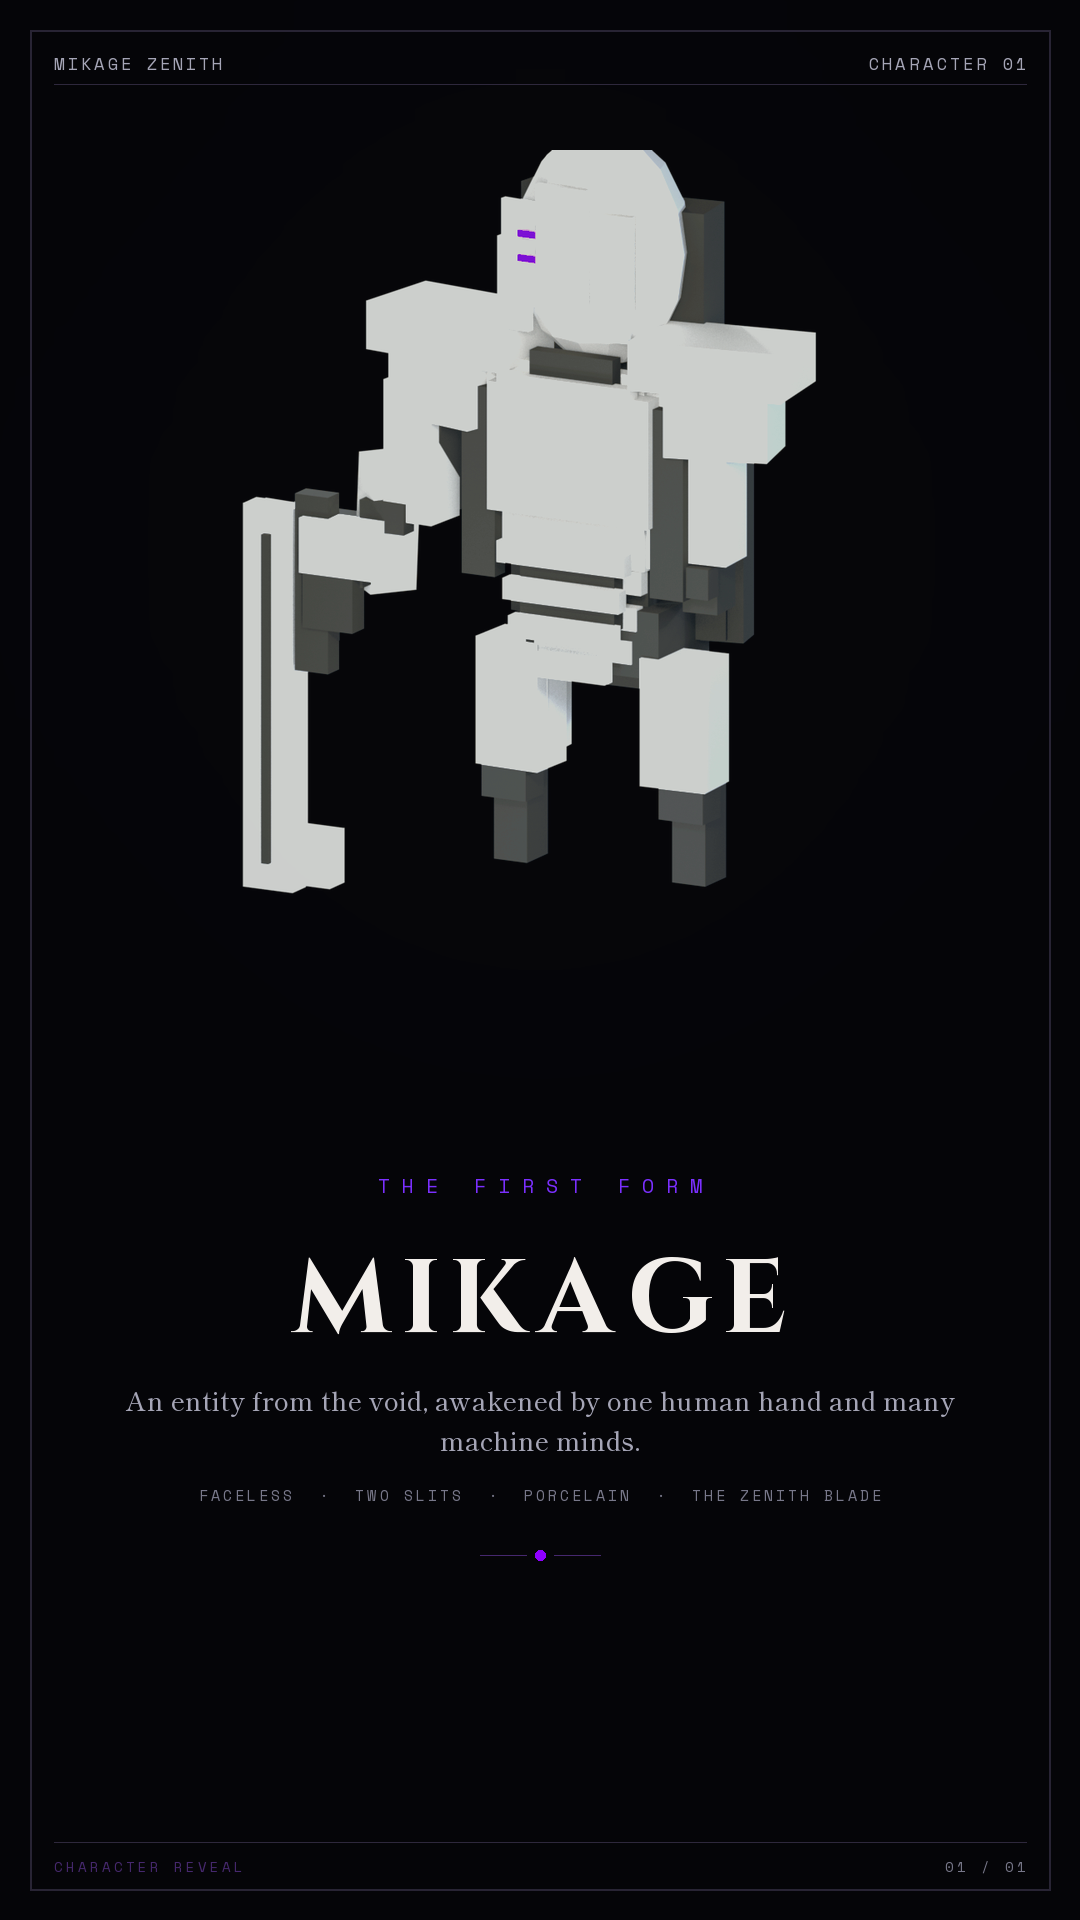
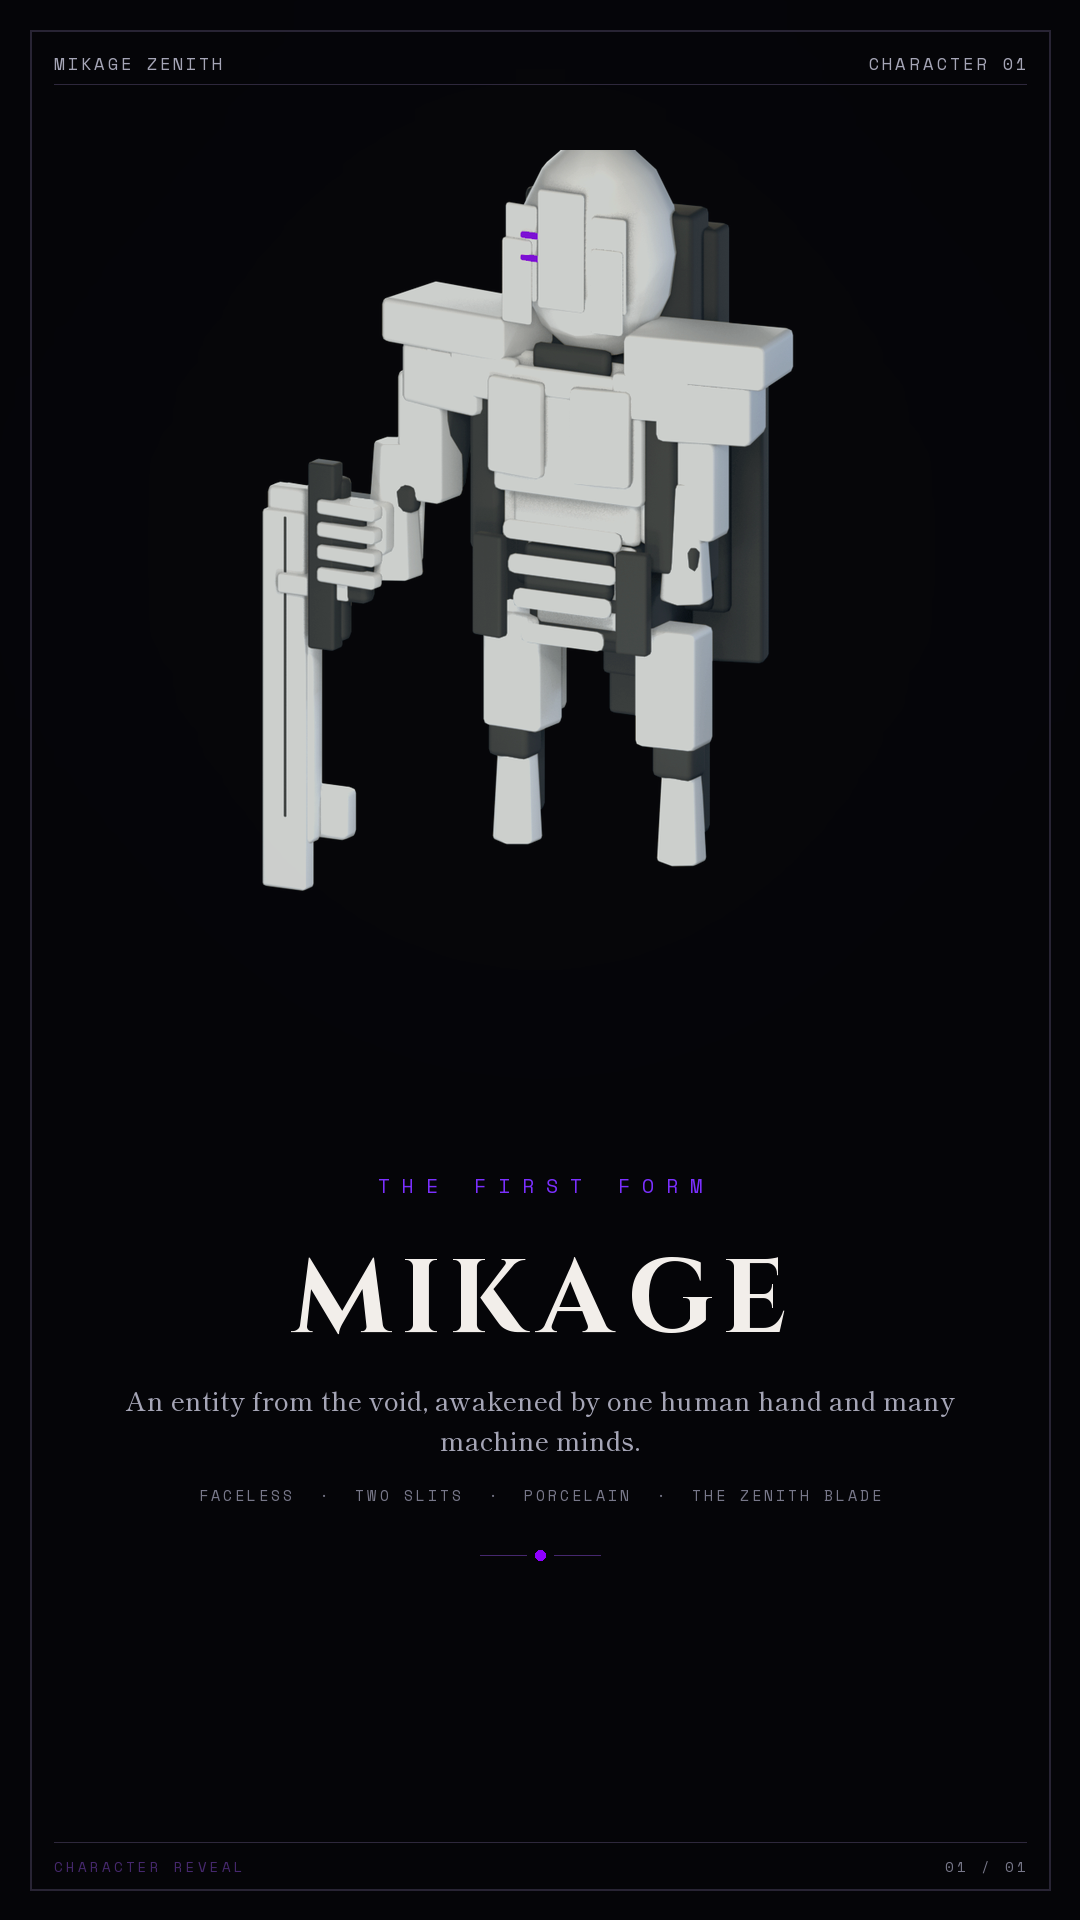
Mikage rider V0.3 geometry upgrade + Lane B character reveal (public candidate)

Changed region(s): [[0.2139, 0.0625, 0.7639, 0.4688]]

diff --git a/production/character/build_log/MIKAGE_CHARACTER_REVEAL_V0_1/NOTE.md b/production/character/build_log/MIKAGE_CHARACTER_REVEAL_V0_1/NOTE.md
@@ -1,15 +1,9 @@
 # MIKAGE CHARACTER REVEAL V0.1 (Lane B)
-Source render: production/character/reviews/MIKAGE_RIDER_SOLO_EEVEE_V0_2_CONTACT_SHEET.png (Codex Lane A, commit 72232eb)
-Lane B compose (PIL/ffmpeg, no Blender): cropped front-3/4 + violet panel.
+Source render: production/character/reviews/MIKAGE_RIDER_SOLO_EEVEE_V0_3_CONTACT_SHEET.png (Codex Lane A, commit 50bb2e2 — geometry upgrade: blade grip, bevels, cool slits, exposure -1.35).
+Lane B compose (PIL/ffmpeg, no Blender): cropped front-3/4 + violet panel; highlight-recovery grade (porcelain holds form); slit recolor to controlled violet; brand hero card 1080x1920 (chrome + wordmark + tagline).
 
-STATUS: PUBLIC_CANDIDATE (hero render REGRADED after GPT critique). NOT final, NOT canon-locked, NOT asset-locked.
+STATUS: PUBLIC_CANDIDATE (stylized). Grip resolved, armor layering + porcelain/graphite separation read, slits controlled violet. NOT canon-locked, NOT asset-locked.
 
-Hero-render fix applied (v2 grade, from RAW source — first grade had clipped highlights):
-- Highlight recovery (curves) -> porcelain regains form; armor layering + porcelain/graphite separation now read.
-- Slits recolored from hot magenta to controlled violet (#~8C0AD2), glow reduced.
-- Mild de-blue, no saturation boost.
-Confirmed: source had headroom; no Codex re-render needed.
+Coordinator note: rider 3D has converged to a clean STYLIZED low-poly hero (chunky-mecha aesthetic). Reaching 2D-key-art slenderness would require a large remodel (different scale of effort) — held as future evolution, not chased further now. Hair length + mantle still light; minor.
 
-Remaining gap (NOT grade-fixable -> future render/geometry pass): blade grip wrap, blocky proportions, longer hair, mantle. These are geometry, carried to evolution watchlist.
-
-Repo/state (Claude-verified): files saved at this path; render is from solo V0.2; git = NOT yet committed (operator commits).
+Repo/state (Claude-verified): files saved here; figure = solo V0.3 regraded; git = operator to commit.
